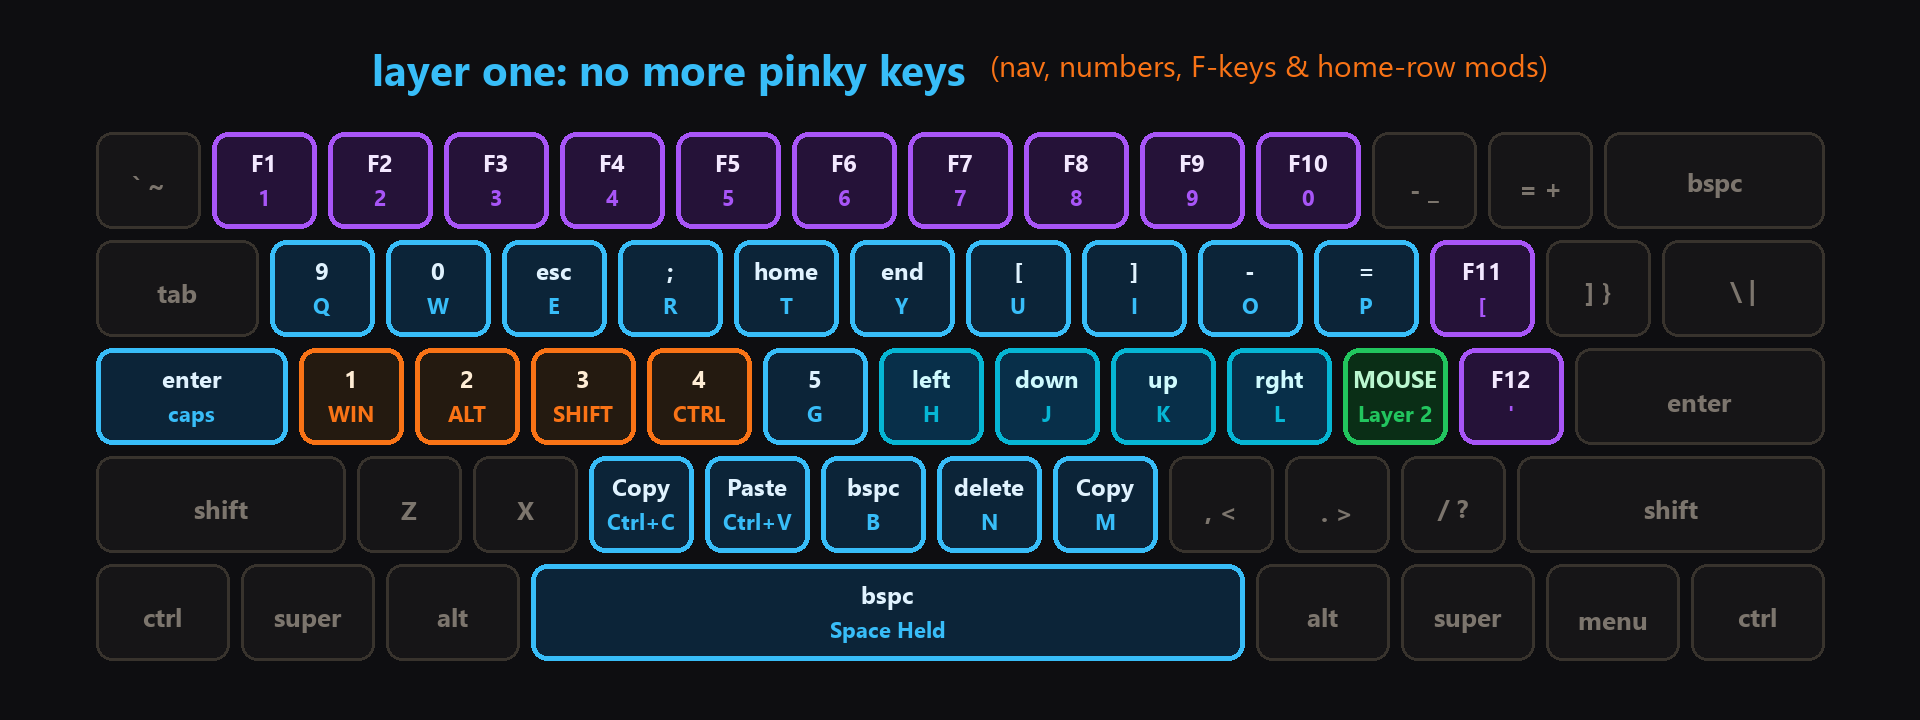
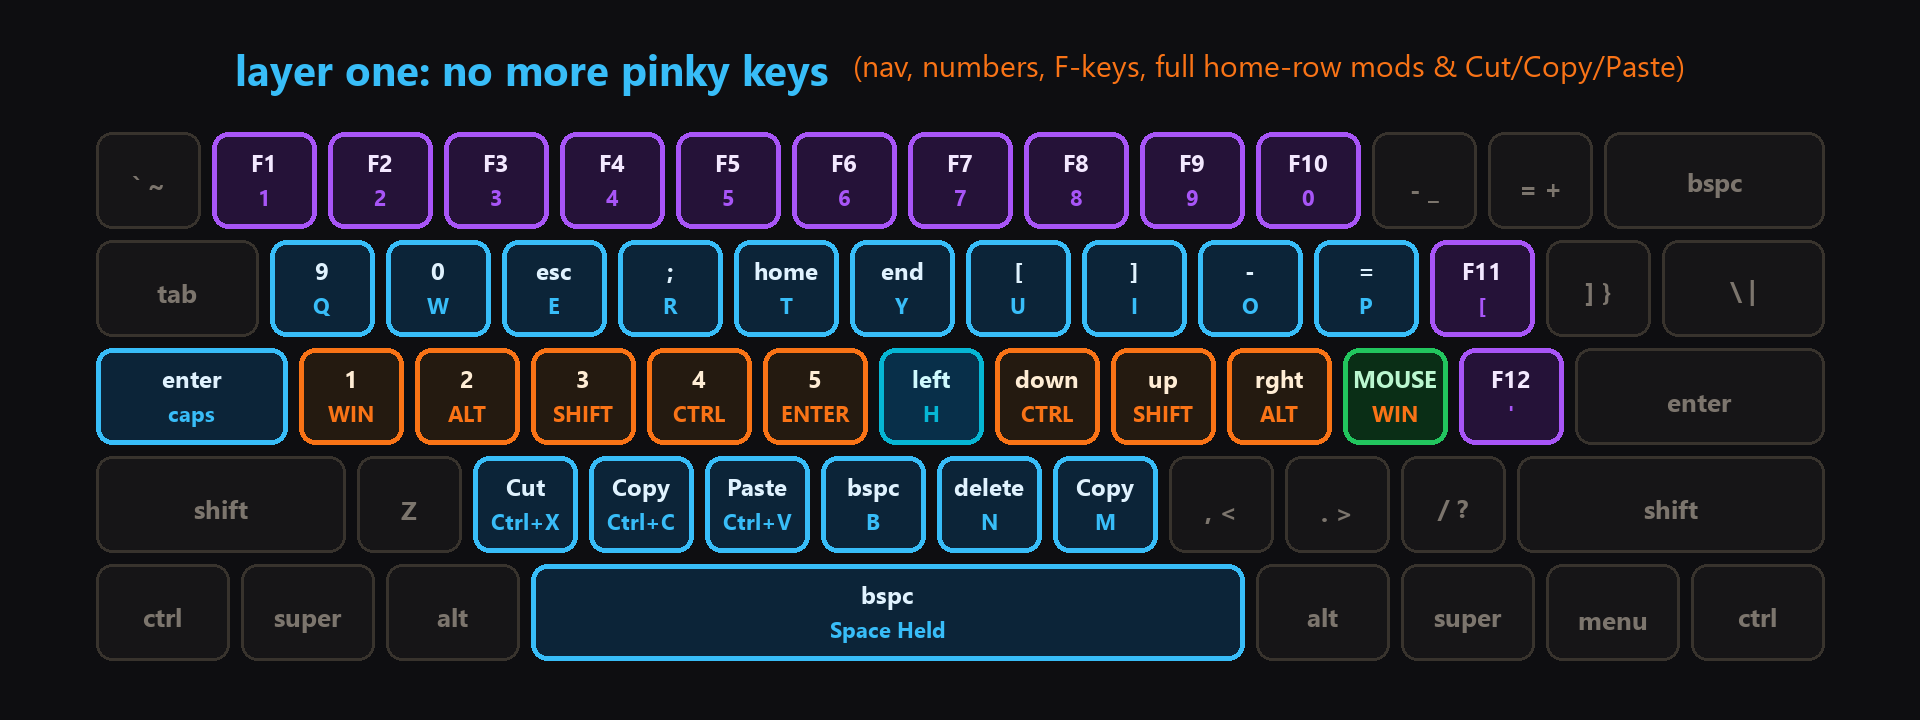
feat(layer-1): add bilateral home-row mods to j,k,l,;, hold-enter on g, and Ctrl+X on x

diff --git a/AGENTS.md b/AGENTS.md
@@ -14,21 +14,22 @@
    - Right hand: `J` (Ctrl), `K` (Shift), `L` (Alt), `;` (Win / Cmd)
    - Spacebar: Tap for `Space`, Hold to activate **Layer 1**
    - CapsLock: Tap for `Escape`, Hold for `CapsLock`
-2. **Layer 1 (Vim Navigation, Numbers & Dual-Action Home-Row Mods)**:
+2. **Layer 1 (Vim Navigation, Numbers & Bilateral Home-Row Mods)**:
    - Activated momentarily while holding **`Spacebar`**.
-   - Left hand numbers: `A` (1), `S` (2), `D` (3), `F` (4), `G` (5), `Q` (9), `W` (0).
-   - Left hand dual-action home-row mods on hold: `A` (Win), `S` (Alt), `D` (Shift), `F` (Ctrl).
-   - Right hand Vim navigation: `H` (Left), `J` (Down), `K` (Up), `L` (Right).
+   - Left hand numbers on tap: `A` (1), `S` (2), `D` (3), `F` (4), `G` (5), `Q` (9), `W` (0).
+   - Left hand home-row mods on hold: `A` (Win), `S` (Alt), `D` (Shift), `F` (Ctrl), `G` (Enter).
+   - Right hand Vim navigation on tap: `H` (Left), `J` (Down), `K` (Up), `L` (Right).
+   - Right hand home-row mods on hold: `J` (Ctrl), `K` (Shift), `L` (Alt), `;` (Win / Super).
    - Navigation extremes: `T` (Home), `Y` (End), `E` (Escape).
    - Function row: `1`–`0` $\rightarrow$ `F1`–`F10`, `[` $\rightarrow$ `F11`, `'` $\rightarrow$ `F12`.
-   - One-tap clipboard: `C` (Ctrl+C), `V` (Ctrl+V), `B` (Backspace), `N` (Delete), `M` (Ctrl+C).
+   - Complete clipboard suite: `X` (Cut / Ctrl+X), `C` (Copy / Ctrl+C), `V` (Paste / Ctrl+V), `B` (Backspace), `N` (Delete), `M` (Copy).
    - Switch to Mouse Mode: Tap **`;`** while holding `Space`.
 3. **Layer 2 (Hands-Free Modal Mouse Controller)**:
    - Toggled via `Space + ;`. Persistent—hands rest freely with zero buttons held.
    - Cursor movement: Inverted-T on left hand: `E` (Up), `S` (Left), `D` (Down), `F` (Right).
    - Mouse buttons: Right hand: `J` (Left Click), `K` (Right Click), `H` (Middle Click).
    - Scroll wheel: `W` (Wheel Down), `R` (Wheel Up).
-   - Clipboard: `C` (Copy), `V` (Paste), `B` (Backspace), `N` (Delete), `M` (Copy).
+   - Clipboard: `X` (Cut), `C` (Copy), `V` (Paste), `B` (Backspace), `N` (Delete), `M` (Copy).
    - Exit back to Base: Tap **`;`**.
 
 ---
@@ -161,7 +162,7 @@ To prevent accidental modifier triggers during fast typing:
   - `'` $\rightarrow$ `&apos;`
 * GitHub Camo and web browsers reject SVGs with XML parsing errors. Always validate with `xml.etree.ElementTree.parse(svg_path)` before committing.
 
-### ⚠ Edge Case 5: Dual-Hand Modifiers vs Vim Navigation Repeat
-* On Layer 1, Left Hand keys (`A, S, D, F`) are tap-hold modifiers (`Win, Alt, Shift, Ctrl`).
-* Right Hand keys (`H, J, K, L`) are **pure navigation keys** (`left, down, up, rght`).
-* **Do NOT turn `H, J, K, L` into tap-holds on Layer 1**, as doing so breaks long-press continuous arrow repeat (scrolling down a document by holding `J`).
+### ⚠ Edge Case 5: Bilateral Home-Row Mods & Vim Navigation Timing
+* On Layer 1, both Left Hand (`A, S, D, F, G`) and Right Hand (`J, K, L, ;`) feature dual-role home-row mods.
+* Rapid taps output the underlying navigation or number key, while intentional holds trigger the system modifier (`Ctrl`, `Shift`, `Alt`, `Win`, `Enter`).
+* Calibrated timings (`tap-time 150`, `hold-time 200`, Shift `150 140`) ensure that quick sequential keystrokes do not misfire as modifiers.

diff --git a/README.md b/README.md
@@ -62,14 +62,19 @@ Repetitive strain injury (RSI), wrist pain, and slow typing often stem from two 
   <img src="assets/layer-1-space.svg" alt="Layer One: Navigation, Numbers & F-Keys" width="860">
 </p>
 
-* **Vim Navigation**: `H` (Left ◄), `J` (Down ▼), `K` (Up ▲), `L` (Right ►).
-* **Dual-Action Home-Row Mods & Numbers (Left Hand)**:
-  * Tap to type numbers directly from the home row; hold to trigger modifiers for instant dual-hand navigation combos:
+* **Bilateral Home-Row Mods on Layer 1**:
+  * **Left Hand (Numbers on Tap & Modifiers on Hold)**:
     * `A` $\rightarrow$ **Tap `1`** &nbsp;|&nbsp; **Hold `Left GUI (Win / Cmd)`**
     * `S` $\rightarrow$ **Tap `2`** &nbsp;|&nbsp; **Hold `Left Alt`**
     * `D` $\rightarrow$ **Tap `3`** &nbsp;|&nbsp; **Hold `Left Shift`**
     * `F` $\rightarrow$ **Tap `4`** &nbsp;|&nbsp; **Hold `Left Ctrl`**
     * `G` $\rightarrow$ **Tap `5`** &nbsp;|&nbsp; **Hold `Enter`**
+  * **Right Hand (Vim Navigation on Tap & Modifiers on Hold)**:
+    * `H` $\rightarrow$ **`Left ◄`**
+    * `J` $\rightarrow$ **Tap `Down ▼`** &nbsp;|&nbsp; **Hold `Right Ctrl`**
+    * `K` $\rightarrow$ **Tap `Up ▲`** &nbsp;|&nbsp; **Hold `Right Shift`**
+    * `L` $\rightarrow$ **Tap `Right ►`** &nbsp;|&nbsp; **Hold `Right Alt`**
+    * `;` $\rightarrow$ **Tap `Layer 2 (Mouse Mode)`** &nbsp;|&nbsp; **Hold `Right GUI (Win / Cmd)`**
   * **Powerful Navigation Combos** (while holding `Space`):
     * `Hold D + J` $\rightarrow$ **`Shift + Down`** (Select lines downwards)
     * `Hold F + L` $\rightarrow$ **`Ctrl + Right`** (Jump forward by word)
@@ -79,11 +84,13 @@ Repetitive strain injury (RSI), wrist pain, and slow typing often stem from two 
     * `Hold S + J / K` $\rightarrow$ **`Alt + Down / Up`** (Move line up/down in code editors)
 * **Navigation Extremes**: `T` $\rightarrow$ **Home**, `Y` $\rightarrow$ **End**, `E` $\rightarrow$ **Escape**.
 * **Brackets & Symbols**: `U` $\rightarrow$ `[`, `I` $\rightarrow$ `]`, `O` $\rightarrow$ `-`, `P` $\rightarrow$ `=`.
-* **One-Tap Editing**:
+* **Complete One-Tap Clipboard Suite**:
+  * `X` $\rightarrow$ **Cut** (`Ctrl + X`)
   * `C` $\rightarrow$ **Copy** (`Ctrl + C`)
   * `V` $\rightarrow$ **Paste** (`Ctrl + V`)
   * `B` $\rightarrow$ **Backspace**
   * `N` $\rightarrow$ **Delete**
+  * `M` $\rightarrow$ **Copy** (`Ctrl + C`)
 * **Instant Function Row (`F1` – `F12`)**:
   * `Space + 1` through `Space + 0` $\rightarrow$ **`F1` through `F10`**
   * `Space + [` $\rightarrow$ **`F11`** (Fullscreen toggle)
@@ -112,6 +119,7 @@ Repetitive strain injury (RSI), wrist pain, and slow typing often stem from two 
   * `W` $\rightarrow$ Wheel Up
   * `R` $\rightarrow$ Wheel Down
 * **Inline Clipboard Actions**:
+  * `X` $\rightarrow$ **Cut** (`Ctrl + X`)
   * `C` $\rightarrow$ **Copy** (`Ctrl + C`)
   * `V` $\rightarrow$ **Paste** (`Ctrl + V`)
   * `B` $\rightarrow$ **Backspace**
